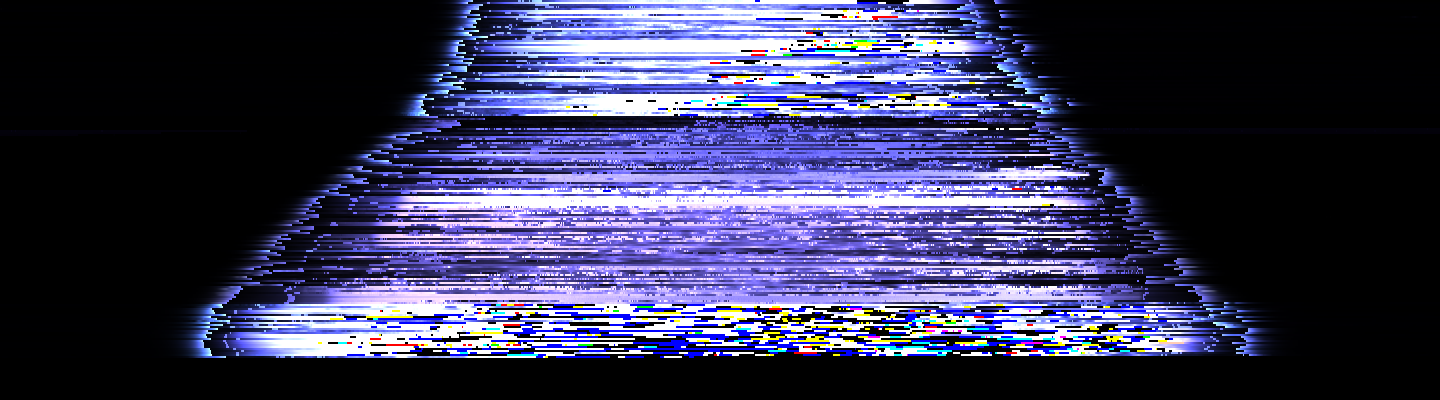
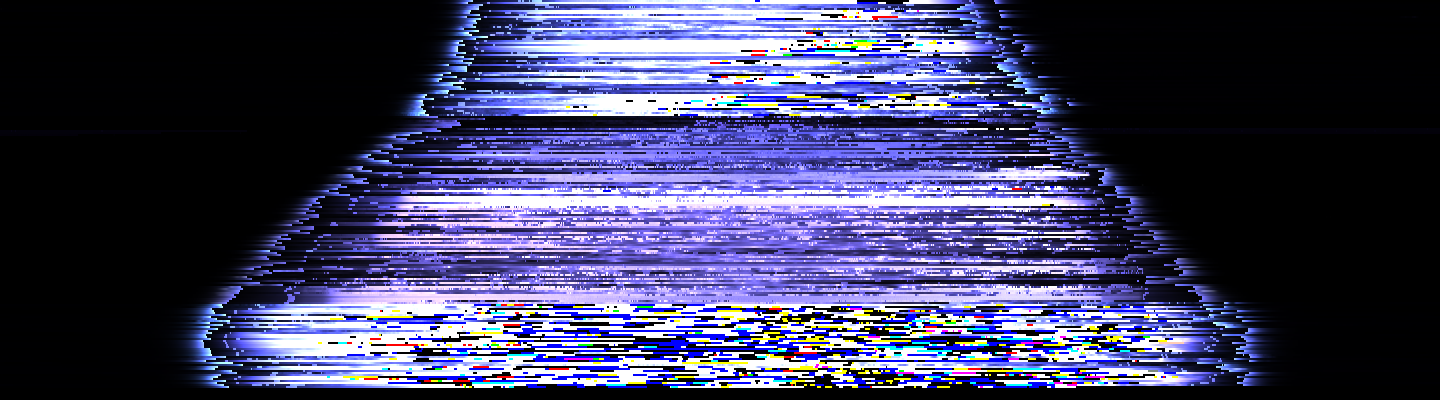
New processsing sw

Changed region(s): [[0.125, 0.87, 0.9062, 0.99]]

diff --git a/testing.py b/testing.py
@@ -10,7 +10,7 @@ import io
 data = np.zeros( (400,1440,3), dtype=np.uint8 )
 
 
-z = pd.read_csv('md.csv')
+z = pd.read_csv('minutedata-validdata-ends-9-7-2017.csv')
 z = z[~z.time.duplicated()]
 z['time'] = pd.to_datetime(z['time'])
 
